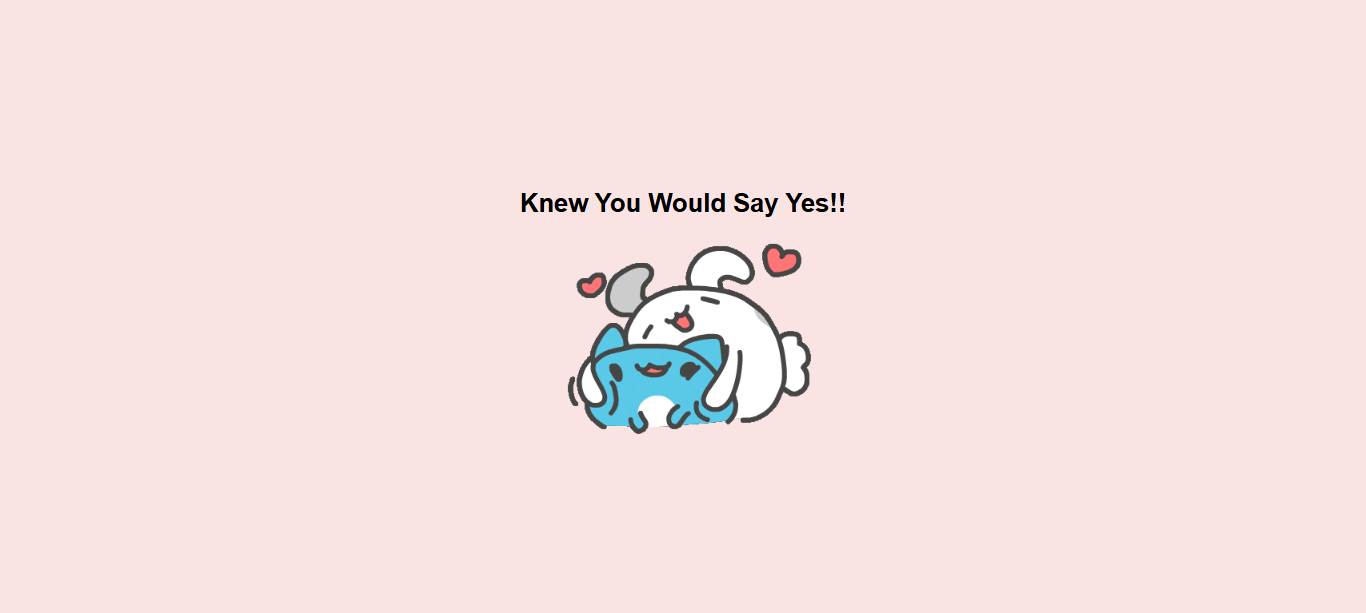
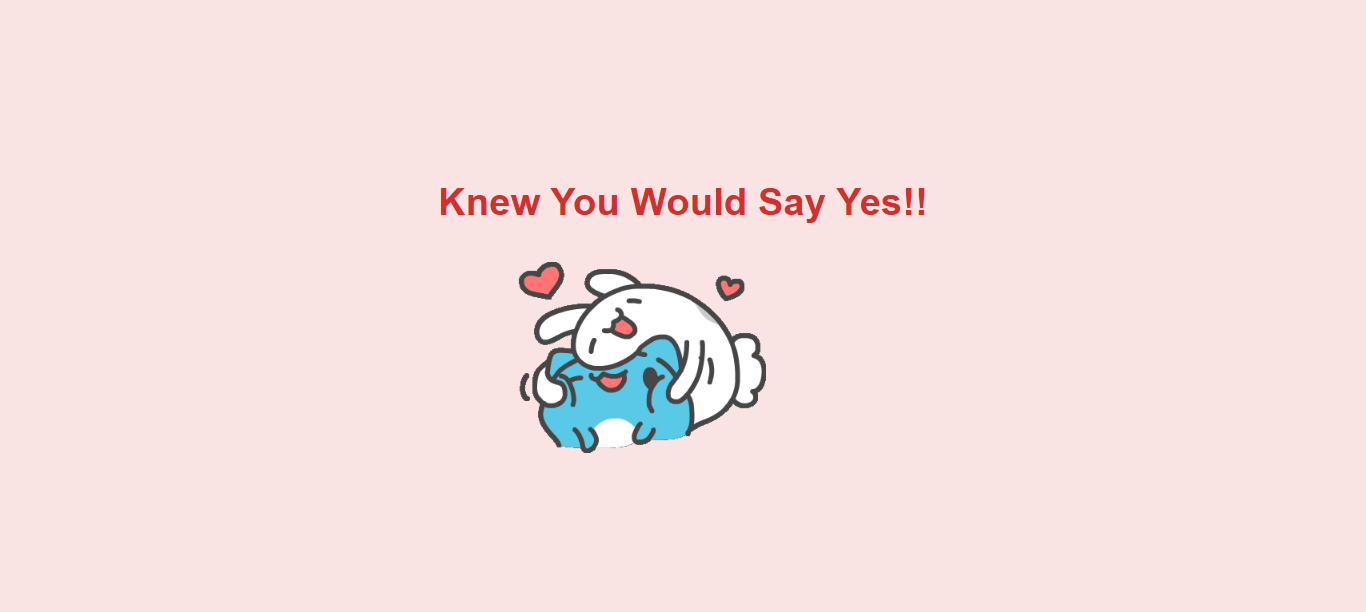
New animations
New animations added

Changed region(s): [[0.369, 0.4036, 0.6149, 0.7451], [0.3075, 0.3105, 0.6764, 0.3725]]

diff --git a/Project/Js/script.js b/Project/Js/script.js
@@ -40,10 +40,16 @@ let messageIndex = 0;
 function handleNoClick() {
     const noButton = document.querySelector('.no-button');
     const yesButton = document.querySelector('.yes-button');
+
     noButton.textContent = messages[messageIndex];
     messageIndex = (messageIndex + 1) % messages.length;
+
     const currentSize = parseFloat(window.getComputedStyle(yesButton).fontSize);
     yesButton.style.fontSize = `${currentSize * 1.5}px`;
+
+    const offsetX = (Math.random() * 200) - 100;
+    const offsetY = (Math.random() * 200) - 100;
+    noButton.style.transform = `translate(${offsetX}px, ${offsetY}px)`;
 }
 
 function handleYesClick() {

diff --git a/Project/assets/Css/styles.css b/Project/assets/Css/styles.css
@@ -17,6 +17,20 @@ body {
     margin-top: 20px;
 }
 
+@keyframes heartbeat {
+    0% {
+        transform: scale(1);
+    }
+
+    50% {
+        transform: scale(1.1);
+    }
+
+    100% {
+        transform: scale(1);
+    }
+}
+
 .yes-button {
     font-size: 1.5em;
     padding: 10px 20px;
@@ -26,6 +40,7 @@ body {
     border: none;
     border-radius: 5px;
     cursor: pointer;
+    animation: heartbeat 1s infinite alternate;
 }
 
 .no-button {

diff --git a/Project/pages/yes_page.html b/Project/pages/yes_page.html
@@ -10,7 +10,7 @@
 
 <body>
     <div class="container">
-        <h1 class="header_text">Knew You Would Say Yes!!</h1>
+        <h1 class="header-text">Knew You Would Say Yes!!</h1>
         <div class="gif-container">
             <img src="https://media4.giphy.com/media/v1.Y2lkPTc5MGI3NjExMmo3c3l5ODh3ZGN6NHhhaDE2Mjg1ZjkwOXczdDFxbWM3dTBtaW9zaiZlcD12MV9pbnRlcm5hbF9naWZfYnlfaWQmY3Q9cw/9XY4f3FgFTT4QlaYqa/giphy.gif"
                 alt="cute-gif">
